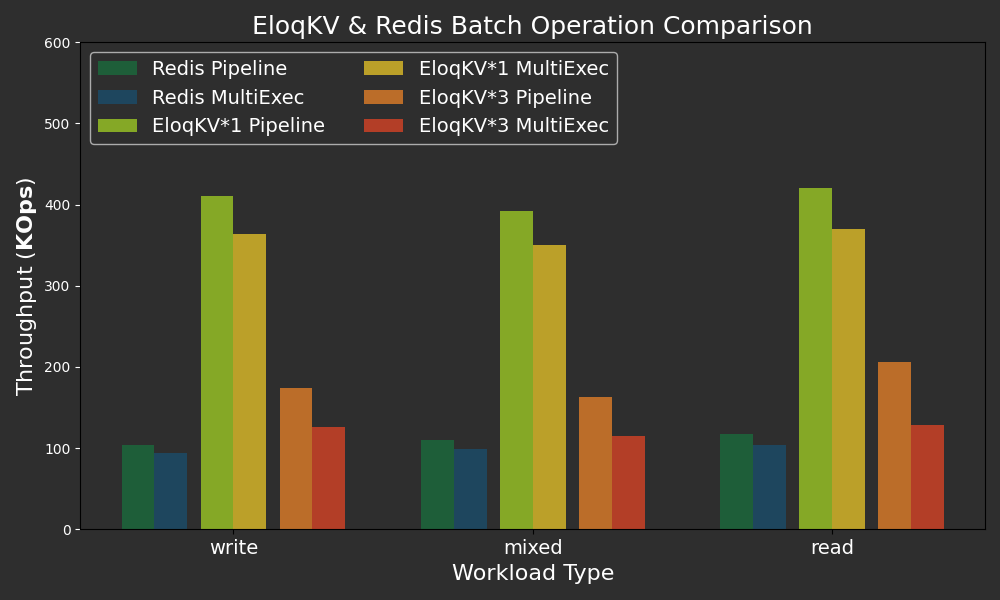
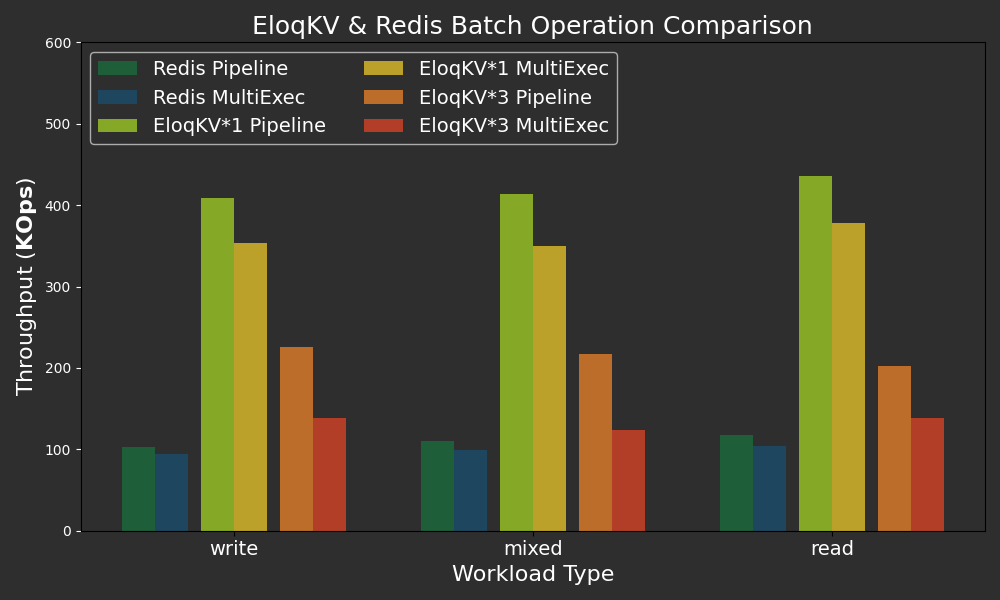
update cluster result (#16)
* update cluster result

* update pic

* update rc

diff --git a/website/blog/2024-09-01-benchmark-transaction/img/eloqkv_redis_batch_dark.py b/website/blog/2024-09-01-benchmark-transaction/img/eloqkv_redis_batch_dark.py
@@ -2,87 +2,133 @@ import matplotlib.pyplot as plt
 import numpy as np
 
 # Set the dark background style
-#plt.style.use('dark_background')
+# plt.style.use('dark_background')
 
 # Data for read workload
-read_concurrency_levels = ['write', 'mixed', 'read']
+read_concurrency_levels = ["write", "mixed", "read"]
 
-#redis_read_throughput = [223.579,212.677,203.522,189.701]  # converted to K
-#dragonfly_read_throughput = [992.120,1529.612,1750.050, 1750.024]  # converted to K
-#eloqkv_read_throughput = [959.015,1405.901,1697.739,1593.660]
-#kvrocks_d1=[7.188,7.482,7.532]
-redis_pipe=[103.329, 110.537, 117.767]
-redis_pipe_lat=[2.477, 2.316,2.172]
-redis_tx=[94.031,98.660,104.051]
-redis_tx_lat=[2.722,2.594,2.46]
-eloqkv1_rc_pipe=[401.930, 402.386,433.997 ]
-eloqkv1_rc_pipe_lat=[0.633, 0.634,0.588]
-eloqkv1_rc_tx=[364.017,379.812,460.216]
-eloqkv1_rc_tx_lat=[0.701,0.673, 0.554]
-eloqkv3_rc_pipe=[183.335, 188.668,190.550]
-eloqkv3_rc_pipe_lat=[]
-eloqkv3_rc_tx=[132.487,154.795,193.388]
-eloqkv3_rc_tx_lat=[]
+# redis_read_throughput = [223.579,212.677,203.522,189.701]  # converted to K
+# dragonfly_read_throughput = [992.120,1529.612,1750.050, 1750.024]  # converted to K
+# eloqkv_read_throughput = [959.015,1405.901,1697.739,1593.660]
+# kvrocks_d1=[7.188,7.482,7.532]
+redis_pipe = [103.329, 110.537, 117.767]
+redis_pipe_lat = [2.477, 2.316, 2.172]
+redis_tx = [94.031, 98.660, 104.051]
+redis_tx_lat = [2.722, 2.594, 2.46]
+eloqkv1_rc_pipe = [401.930, 402.386, 433.997]
+eloqkv1_rc_pipe_lat = [0.633, 0.634, 0.588]
+eloqkv1_rc_tx = [364.017, 379.812, 460.216]
+eloqkv1_rc_tx_lat = [0.701, 0.673, 0.554]
+eloqkv3_rc_pipe = [212.418, 203.796, 221.006]
+eloqkv3_rc_pipe_lat = []
+eloqkv3_rc_tx = [123.455, 166.963, 234.643]
+eloqkv3_rc_tx_lat = []
 
-#redis_read_latency = [0.786,1.983,4.788,11.412]
-#dragonfly_read_latency = [0.252,0.444,0.956,2.191]
-#eloqkv_read_latency = [0.271,0.554,1.367,3.375]
+# redis_read_latency = [0.786,1.983,4.788,11.412]
+# dragonfly_read_latency = [0.252,0.444,0.956,2.191]
+# eloqkv_read_latency = [0.271,0.554,1.367,3.375]
 
 # Convert latency to milliseconds for better readability on the graph
-#redis_read_latency_ms = [lat * 1000 for lat in redis_read_latency]
-#dragonfly_read_latency_ms = [lat * 1000 for lat in dragonfly_read_latency]
-#eloqkv_read_latency_ms = [lat * 1000 for lat in eloqkv_read_latency]
+# redis_read_latency_ms = [lat * 1000 for lat in redis_read_latency]
+# dragonfly_read_latency_ms = [lat * 1000 for lat in dragonfly_read_latency]
+# eloqkv_read_latency_ms = [lat * 1000 for lat in eloqkv_read_latency]
 
 # Plotting the data
 fig, ax1 = plt.subplots(figsize=(10, 6))  # 10 inches wide, 6 inches tall
-fig.patch.set_facecolor('#2e2e2e')  # Figure background color
-ax1.set_facecolor('#2e2e2e')  # Axes background color
+fig.patch.set_facecolor("#2e2e2e")  # Figure background color
+ax1.set_facecolor("#2e2e2e")  # Axes background color
 
 # Bar plots for read throughput
 bar_width = 0.11
 index_read = np.arange(len(read_concurrency_levels))
 
-bar1_read = ax1.bar(index_read - 2.9*bar_width, redis_pipe, bar_width, alpha=0.8, color='#1A6B3D', label='Redis Pipeline')
-bar1_read = ax1.bar(index_read - 1.9*bar_width, redis_tx, bar_width, alpha=0.8, color='#1A4D6B', label='Redis MultiExec')
-bar2_read = ax1.bar(index_read - 0.5*bar_width, eloqkv1_rc_pipe, bar_width, alpha=0.8, color='#9CC725', label='EloqKV*1 Pipeline')
-bar3_read = ax1.bar(index_read + 0.5*bar_width, eloqkv1_rc_tx, bar_width, alpha=0.8, color='#E0BD28', label='EloqKV*1 MultiExec')
-bar4_read = ax1.bar(index_read+ 1.9*bar_width, eloqkv3_rc_pipe, bar_width, alpha=0.8, color='#E07D28', label='EloqKV*3 Pipeline')
-bar4_read = ax1.bar(index_read+ 2.9*bar_width, eloqkv3_rc_tx, bar_width, alpha=0.8, color='#D64326', label='EloqKV*3 MultiExec')
+bar1_read = ax1.bar(
+    index_read - 2.9 * bar_width,
+    redis_pipe,
+    bar_width,
+    alpha=0.8,
+    color="#1A6B3D",
+    label="Redis Pipeline",
+)
+bar1_read = ax1.bar(
+    index_read - 1.9 * bar_width,
+    redis_tx,
+    bar_width,
+    alpha=0.8,
+    color="#1A4D6B",
+    label="Redis MultiExec",
+)
+bar2_read = ax1.bar(
+    index_read - 0.5 * bar_width,
+    eloqkv1_rc_pipe,
+    bar_width,
+    alpha=0.8,
+    color="#9CC725",
+    label="EloqKV*1 Pipeline",
+)
+bar3_read = ax1.bar(
+    index_read + 0.5 * bar_width,
+    eloqkv1_rc_tx,
+    bar_width,
+    alpha=0.8,
+    color="#E0BD28",
+    label="EloqKV*1 MultiExec",
+)
+bar4_read = ax1.bar(
+    index_read + 1.9 * bar_width,
+    eloqkv3_rc_pipe,
+    bar_width,
+    alpha=0.8,
+    color="#E07D28",
+    label="EloqKV*3 Pipeline",
+)
+bar4_read = ax1.bar(
+    index_read + 2.9 * bar_width,
+    eloqkv3_rc_tx,
+    bar_width,
+    alpha=0.8,
+    color="#D64326",
+    label="EloqKV*3 MultiExec",
+)
 
-ax1.set_xlabel('Workload Type', color='white', fontsize=16)
-ax1.set_ylabel('Throughput ($\mathbf{KOps}$)', color='white', fontsize=16)
-ax1.set_title('EloqKV & Redis Batch Operation Comparison', color='white', fontsize=18)
+ax1.set_xlabel("Workload Type", color="white", fontsize=16)
+ax1.set_ylabel("Throughput ($\mathbf{KOps}$)", color="white", fontsize=16)
+ax1.set_title("EloqKV & Redis Batch Operation Comparison", color="white", fontsize=18)
 ax1.set_xticks(index_read)
-ax1.set_xticklabels(read_concurrency_levels, color='white', fontsize=14)
-ax1.tick_params(axis='y', colors='white')
+ax1.set_xticklabels(read_concurrency_levels, color="white", fontsize=14)
+ax1.tick_params(axis="y", colors="white")
 ax1.set_ylim(0, 600)  # Adjust this value to leave more space at the top
-#ax1.set_xlim(0, 800)  # Adjust this value to leave more space at the top
+# ax1.set_xlim(0, 800)  # Adjust this value to leave more space at the top
 
 # Latency data (line graph)
-#ax2 = ax1.twinx()
-#line1_read = ax2.plot(index_read, eloqkv_d8_lat, 'b--', marker='o', color='#208B8E', label='EloqKV 32C 1D Latency', linewidth=3)
-#line2_read = ax2.plot(index_read, eloqkv_d10_lat, 'g--', marker='o', color='#739C23', label='EloqKV 32C 2D Latency', linewidth=3)
-#line3_read = ax2.plot(index_read, eloqkv_d8_48_lat, 'r--', marker='o', color='#E07D28', label='EloqKV 32C 4D Latency', linewidth=3)
-#line3_read = ax2.plot(index_read, eloqkv_d10_48_lat, 'r--', marker='o', color='#D64326', label='EloqKV 32C 6D Latency', linewidth=3)
+# ax2 = ax1.twinx()
+# line1_read = ax2.plot(index_read, eloqkv_d8_lat, 'b--', marker='o', color='#208B8E', label='EloqKV 32C 1D Latency', linewidth=3)
+# line2_read = ax2.plot(index_read, eloqkv_d10_lat, 'g--', marker='o', color='#739C23', label='EloqKV 32C 2D Latency', linewidth=3)
+# line3_read = ax2.plot(index_read, eloqkv_d8_48_lat, 'r--', marker='o', color='#E07D28', label='EloqKV 32C 4D Latency', linewidth=3)
+# line3_read = ax2.plot(index_read, eloqkv_d10_48_lat, 'r--', marker='o', color='#D64326', label='EloqKV 32C 6D Latency', linewidth=3)
 
-#ax2.set_ylabel('Avg Latency ($\mathbf{ms}$)', color='white', fontsize=16)
-#ax2.tick_params(axis='y', colors='white')
-#ax2.set_ylim(0, 15)  # Adjust this value to leave more space at the top
+# ax2.set_ylabel('Avg Latency ($\mathbf{ms}$)', color='white', fontsize=16)
+# ax2.tick_params(axis='y', colors='white')
+# ax2.set_ylim(0, 15)  # Adjust this value to leave more space at the top
 
 # Combine legends from both axes
 lines, labels = ax1.get_legend_handles_labels()
-#lines2, labels2 = ax2.get_legend_handles_labels()
-legend = ax1.legend(lines, labels, loc='upper left', facecolor='#2e2e2e',fontsize=14, ncol=2)
-#ax2.legend(ncol=2)  # Legend with two columns
+# lines2, labels2 = ax2.get_legend_handles_labels()
+legend = ax1.legend(
+    lines, labels, loc="upper left", facecolor="#2e2e2e", fontsize=14, ncol=2
+)
+# ax2.legend(ncol=2)  # Legend with two columns
 
 # Set legend text color to white
-plt.setp(legend.get_texts(), color='white', fontsize=14)
+plt.setp(legend.get_texts(), color="white", fontsize=14)
 
 # Adjust layout to prevent clipping
 fig.tight_layout()
 
 # Show plot
-#plt.show()
+# plt.show()
 
-plt.savefig('eloqkv_redis_batch.png')  # Saves the plot as 'my_plot.png' in the current directory
+plt.savefig(
+    "eloqkv_redis_batch.png"
+)  # Saves the plot as 'my_plot.png' in the current directory
 plt.close()

diff --git a/website/blog/2024-09-01-benchmark-transaction/img/eloqkv_redis_batch_rr_dark.py b/website/blog/2024-09-01-benchmark-transaction/img/eloqkv_redis_batch_rr_dark.py
@@ -2,87 +2,133 @@ import matplotlib.pyplot as plt
 import numpy as np
 
 # Set the dark background style
-#plt.style.use('dark_background')
+# plt.style.use('dark_background')
 
 # Data for read workload
-read_concurrency_levels = ['write', 'mixed', 'read']
+read_concurrency_levels = ["write", "mixed", "read"]
 
-#redis_read_throughput = [223.579,212.677,203.522,189.701]  # converted to K
-#dragonfly_read_throughput = [992.120,1529.612,1750.050, 1750.024]  # converted to K
-#eloqkv_read_throughput = [959.015,1405.901,1697.739,1593.660]
-#kvrocks_d1=[7.188,7.482,7.532]
-redis_pipe=[103.329, 110.537, 117.767]
-redis_pipe_lat=[2.477, 2.316,2.172]
-redis_tx=[94.031,98.660,104.051]
-redis_tx_lat=[2.722,2.594,2.46]
-eloqkv1_rr_pipe=[410.322,392.491,419.997]
-eloqkv1_rr_pipe_lat=[]
-eloqkv1_rr_tx=[363.602,350.274,369.583]
-eloqkv1_rr_tx_lat=[]
-eloqkv3_rr_pipe=[173.894,162.583,206.246]
-eloqkv3_rr_pipe_lat=[]
-eloqkv3_rr_tx=[125.364,114.587,128.157]
-eloqkv3_rr_tx_lat=[]
+# redis_read_throughput = [223.579,212.677,203.522,189.701]  # converted to K
+# dragonfly_read_throughput = [992.120,1529.612,1750.050, 1750.024]  # converted to K
+# eloqkv_read_throughput = [959.015,1405.901,1697.739,1593.660]
+# kvrocks_d1=[7.188,7.482,7.532]
+redis_pipe = [103.329, 110.537, 117.767]
+redis_pipe_lat = [2.477, 2.316, 2.172]
+redis_tx = [94.031, 98.660, 104.051]
+redis_tx_lat = [2.722, 2.594, 2.46]
+eloqkv1_rr_pipe = [408.498, 413.680, 436.166]
+eloqkv1_rr_pipe_lat = []
+eloqkv1_rr_tx = [353.299, 349.760, 377.631]
+eloqkv1_rr_tx_lat = []
+eloqkv3_rr_pipe = [225.369, 216.835, 202.577]
+eloqkv3_rr_pipe_lat = []
+eloqkv3_rr_tx = [138.669, 123.978, 138.885]
+eloqkv3_rr_tx_lat = []
 
-#redis_read_latency = [0.786,1.983,4.788,11.412]
-#dragonfly_read_latency = [0.252,0.444,0.956,2.191]
-#eloqkv_read_latency = [0.271,0.554,1.367,3.375]
+# redis_read_latency = [0.786,1.983,4.788,11.412]
+# dragonfly_read_latency = [0.252,0.444,0.956,2.191]
+# eloqkv_read_latency = [0.271,0.554,1.367,3.375]
 
 # Convert latency to milliseconds for better readability on the graph
-#redis_read_latency_ms = [lat * 1000 for lat in redis_read_latency]
-#dragonfly_read_latency_ms = [lat * 1000 for lat in dragonfly_read_latency]
-#eloqkv_read_latency_ms = [lat * 1000 for lat in eloqkv_read_latency]
+# redis_read_latency_ms = [lat * 1000 for lat in redis_read_latency]
+# dragonfly_read_latency_ms = [lat * 1000 for lat in dragonfly_read_latency]
+# eloqkv_read_latency_ms = [lat * 1000 for lat in eloqkv_read_latency]
 
 # Plotting the data
 fig, ax1 = plt.subplots(figsize=(10, 6))  # 10 inches wide, 6 inches tall
-fig.patch.set_facecolor('#2e2e2e')  # Figure background color
-ax1.set_facecolor('#2e2e2e')  # Axes background color
+fig.patch.set_facecolor("#2e2e2e")  # Figure background color
+ax1.set_facecolor("#2e2e2e")  # Axes background color
 
 # Bar plots for read throughput
 bar_width = 0.11
 index_read = np.arange(len(read_concurrency_levels))
 
-bar1_read = ax1.bar(index_read - 2.9*bar_width, redis_pipe, bar_width, alpha=0.8, color='#1A6B3D', label='Redis Pipeline')
-bar1_read = ax1.bar(index_read - 1.9*bar_width, redis_tx, bar_width, alpha=0.8, color='#1A4D6B', label='Redis MultiExec')
-bar2_read = ax1.bar(index_read - 0.5*bar_width, eloqkv1_rr_pipe, bar_width, alpha=0.8, color='#9CC725', label='EloqKV*1 Pipeline')
-bar3_read = ax1.bar(index_read + 0.5*bar_width, eloqkv1_rr_tx, bar_width, alpha=0.8, color='#E0BD28', label='EloqKV*1 MultiExec')
-bar4_read = ax1.bar(index_read+ 1.9*bar_width, eloqkv3_rr_pipe, bar_width, alpha=0.8, color='#E07D28', label='EloqKV*3 Pipeline')
-bar4_read = ax1.bar(index_read+ 2.9*bar_width, eloqkv3_rr_tx, bar_width, alpha=0.8, color='#D64326', label='EloqKV*3 MultiExec')
+bar1_read = ax1.bar(
+    index_read - 2.9 * bar_width,
+    redis_pipe,
+    bar_width,
+    alpha=0.8,
+    color="#1A6B3D",
+    label="Redis Pipeline",
+)
+bar1_read = ax1.bar(
+    index_read - 1.9 * bar_width,
+    redis_tx,
+    bar_width,
+    alpha=0.8,
+    color="#1A4D6B",
+    label="Redis MultiExec",
+)
+bar2_read = ax1.bar(
+    index_read - 0.5 * bar_width,
+    eloqkv1_rr_pipe,
+    bar_width,
+    alpha=0.8,
+    color="#9CC725",
+    label="EloqKV*1 Pipeline",
+)
+bar3_read = ax1.bar(
+    index_read + 0.5 * bar_width,
+    eloqkv1_rr_tx,
+    bar_width,
+    alpha=0.8,
+    color="#E0BD28",
+    label="EloqKV*1 MultiExec",
+)
+bar4_read = ax1.bar(
+    index_read + 1.9 * bar_width,
+    eloqkv3_rr_pipe,
+    bar_width,
+    alpha=0.8,
+    color="#E07D28",
+    label="EloqKV*3 Pipeline",
+)
+bar4_read = ax1.bar(
+    index_read + 2.9 * bar_width,
+    eloqkv3_rr_tx,
+    bar_width,
+    alpha=0.8,
+    color="#D64326",
+    label="EloqKV*3 MultiExec",
+)
 
-ax1.set_xlabel('Workload Type', color='white', fontsize=16)
-ax1.set_ylabel('Throughput ($\mathbf{KOps}$)', color='white', fontsize=16)
-ax1.set_title('EloqKV & Redis Batch Operation Comparison', color='white', fontsize=18)
+ax1.set_xlabel("Workload Type", color="white", fontsize=16)
+ax1.set_ylabel("Throughput ($\mathbf{KOps}$)", color="white", fontsize=16)
+ax1.set_title("EloqKV & Redis Batch Operation Comparison", color="white", fontsize=18)
 ax1.set_xticks(index_read)
-ax1.set_xticklabels(read_concurrency_levels, color='white', fontsize=14)
-ax1.tick_params(axis='y', colors='white')
+ax1.set_xticklabels(read_concurrency_levels, color="white", fontsize=14)
+ax1.tick_params(axis="y", colors="white")
 ax1.set_ylim(0, 600)  # Adjust this value to leave more space at the top
-#ax1.set_xlim(0, 800)  # Adjust this value to leave more space at the top
+# ax1.set_xlim(0, 800)  # Adjust this value to leave more space at the top
 
 # Latency data (line graph)
-#ax2 = ax1.twinx()
-#line1_read = ax2.plot(index_read, eloqkv_d8_lat, 'b--', marker='o', color='#208B8E', label='EloqKV 32C 1D Latency', linewidth=3)
-#line2_read = ax2.plot(index_read, eloqkv_d10_lat, 'g--', marker='o', color='#739C23', label='EloqKV 32C 2D Latency', linewidth=3)
-#line3_read = ax2.plot(index_read, eloqkv_d8_48_lat, 'r--', marker='o', color='#E07D28', label='EloqKV 32C 4D Latency', linewidth=3)
-#line3_read = ax2.plot(index_read, eloqkv_d10_48_lat, 'r--', marker='o', color='#D64326', label='EloqKV 32C 6D Latency', linewidth=3)
+# ax2 = ax1.twinx()
+# line1_read = ax2.plot(index_read, eloqkv_d8_lat, 'b--', marker='o', color='#208B8E', label='EloqKV 32C 1D Latency', linewidth=3)
+# line2_read = ax2.plot(index_read, eloqkv_d10_lat, 'g--', marker='o', color='#739C23', label='EloqKV 32C 2D Latency', linewidth=3)
+# line3_read = ax2.plot(index_read, eloqkv_d8_48_lat, 'r--', marker='o', color='#E07D28', label='EloqKV 32C 4D Latency', linewidth=3)
+# line3_read = ax2.plot(index_read, eloqkv_d10_48_lat, 'r--', marker='o', color='#D64326', label='EloqKV 32C 6D Latency', linewidth=3)
 
-#ax2.set_ylabel('Avg Latency ($\mathbf{ms}$)', color='white', fontsize=16)
-#ax2.tick_params(axis='y', colors='white')
-#ax2.set_ylim(0, 15)  # Adjust this value to leave more space at the top
+# ax2.set_ylabel('Avg Latency ($\mathbf{ms}$)', color='white', fontsize=16)
+# ax2.tick_params(axis='y', colors='white')
+# ax2.set_ylim(0, 15)  # Adjust this value to leave more space at the top
 
 # Combine legends from both axes
 lines, labels = ax1.get_legend_handles_labels()
-#lines2, labels2 = ax2.get_legend_handles_labels()
-legend = ax1.legend(lines, labels, loc='upper left', facecolor='#2e2e2e',fontsize=14, ncol=2)
-#ax2.legend(ncol=2)  # Legend with two columns
+# lines2, labels2 = ax2.get_legend_handles_labels()
+legend = ax1.legend(
+    lines, labels, loc="upper left", facecolor="#2e2e2e", fontsize=14, ncol=2
+)
+# ax2.legend(ncol=2)  # Legend with two columns
 
 # Set legend text color to white
-plt.setp(legend.get_texts(), color='white', fontsize=14)
+plt.setp(legend.get_texts(), color="white", fontsize=14)
 
 # Adjust layout to prevent clipping
 fig.tight_layout()
 
 # Show plot
-#plt.show()
+# plt.show()
 
-plt.savefig('eloqkv_redis_batch_rr.png')  # Saves the plot as 'my_plot.png' in the current directory
+plt.savefig(
+    "eloqkv_redis_batch_rr.png"
+)  # Saves the plot as 'my_plot.png' in the current directory
 plt.close()
